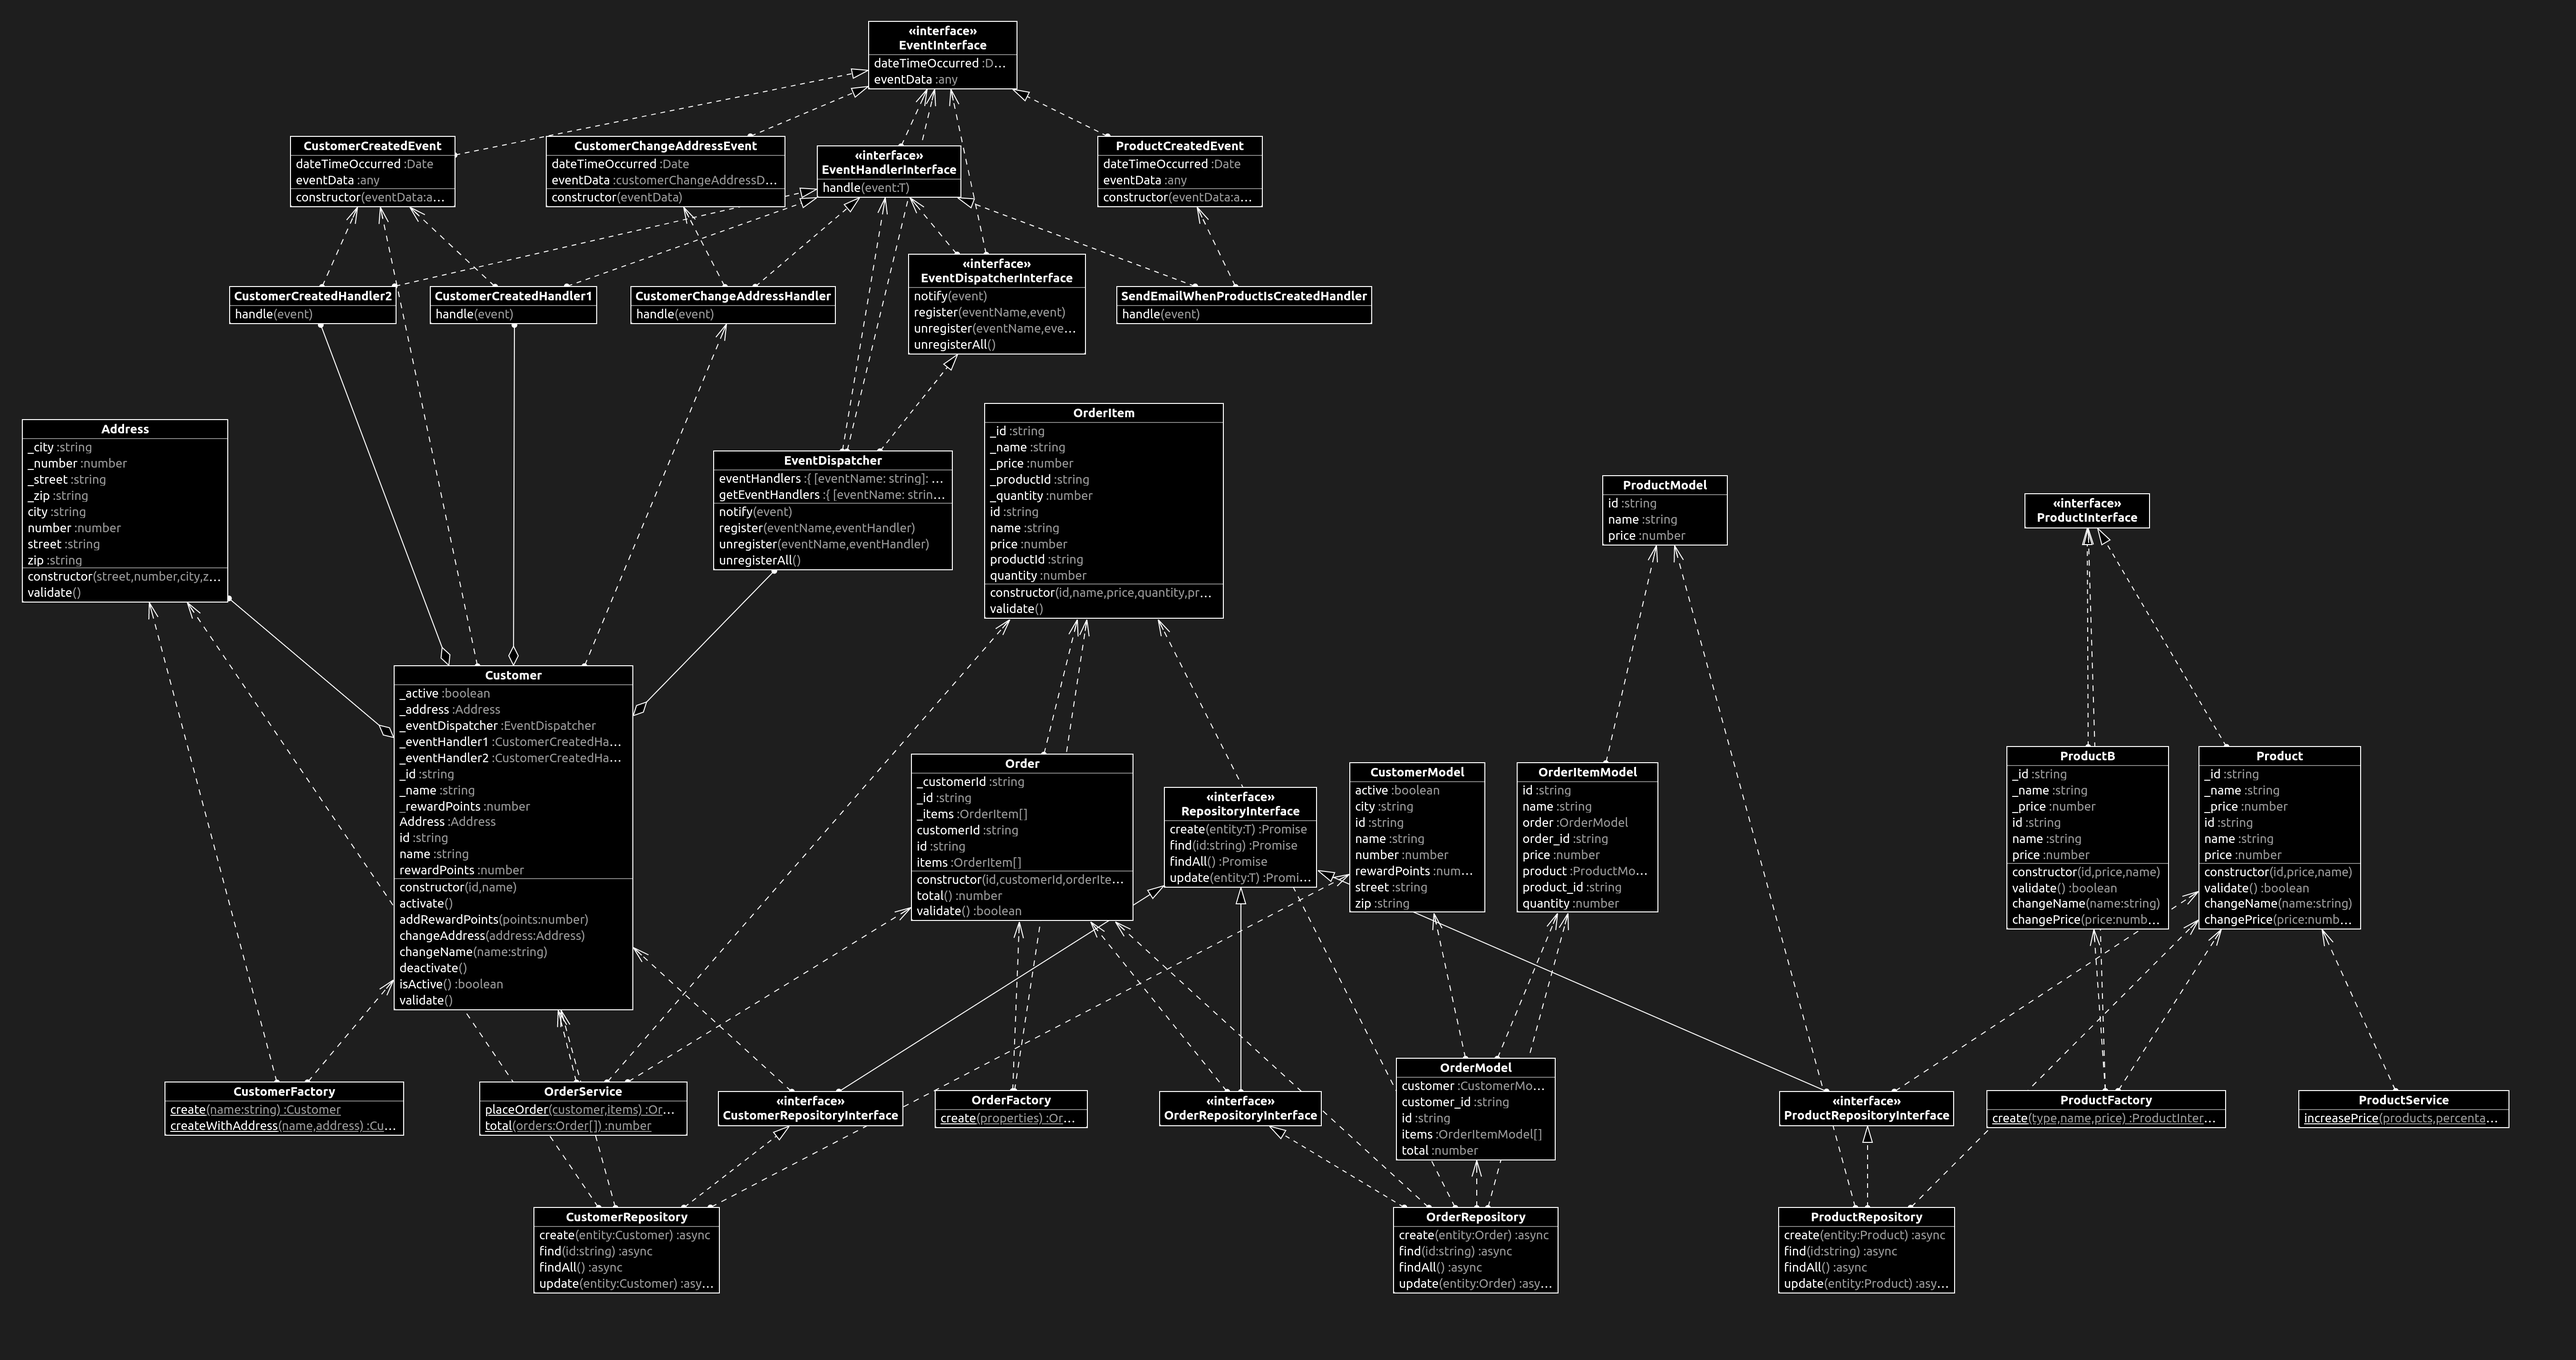
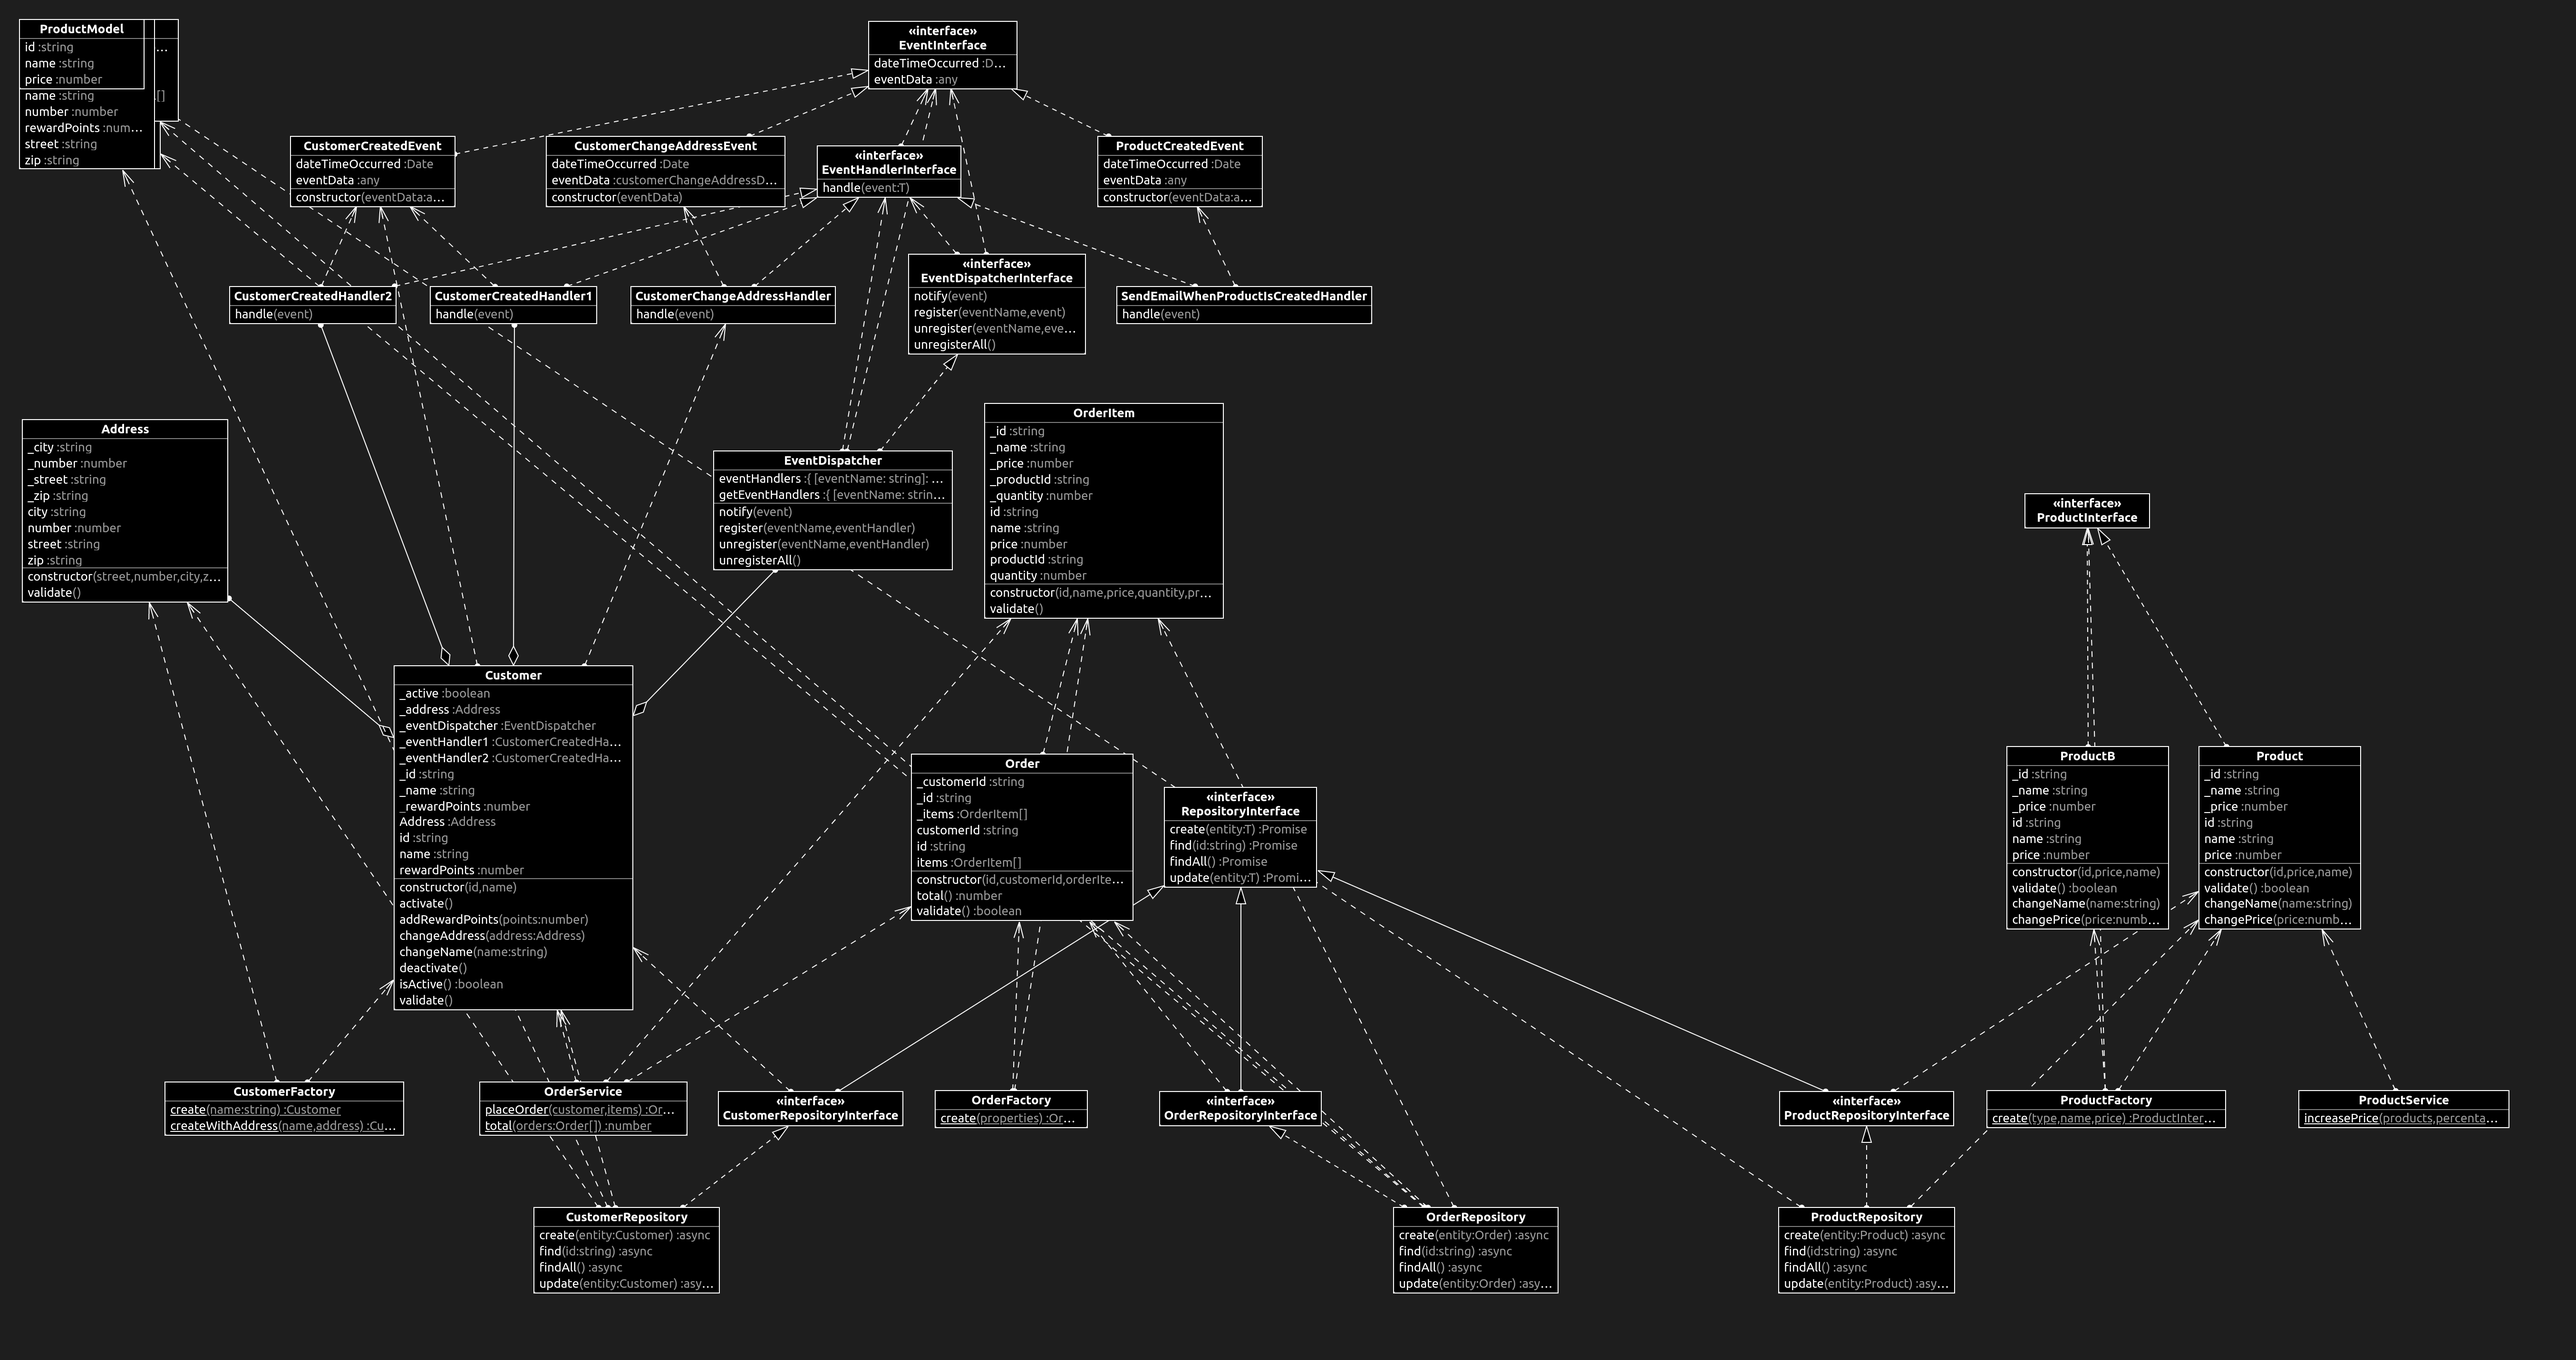
add files

diff --git a/src/domain/checkout/repository/order.repository.spec.ts b/src/domain/checkout/repository/order.repository.spec.ts
@@ -1,9 +1,9 @@
 import { where } from 'sequelize';
 import {Sequelize} from 'sequelize-typescript';
-import CustomerModel from '../../../infrastructure/database/sequelize/model/customer.model';
-import OrderItemModel from '../../../infrastructure/database/sequelize/model/order-item.model';
-import OrderModel from '../../../infrastructure/database/sequelize/model/order.model';
-import ProductModel from '../../../infrastructure/database/sequelize/model/product.model';
+import CustomerModel from '../../../infrastructure/database/sequelize/model/customer/customer.model';
+import OrderItemModel from '../../../infrastructure/database/sequelize/model/checkout/order-item.model';
+import OrderModel from '../../../infrastructure/database/sequelize/model/checkout/order.model';
+import ProductModel from '../../../infrastructure/database/sequelize/model/product/product.model';
 import Customer from '../../customer/entity/custumer';
 import CustomerRepository from '../../customer/repository/customer.repository';
 import Address from '../../customer/value-object/address';

diff --git a/src/domain/customer/repository/customer.repository.spec.ts b/src/domain/customer/repository/customer.repository.spec.ts
@@ -1,8 +1,8 @@
 import {Sequelize} from 'sequelize-typescript';
 import Address from '../value-object/address';
 
-import CustomerModel from '../../../infrastructure/database/sequelize/model/customer.model';
-import ProductModel from '../../../infrastructure/database/sequelize/model/product.model';
+import CustomerModel from '../../../infrastructure/database/sequelize/model/customer/customer.model';
+import ProductModel from '../../../infrastructure/database/sequelize/model/product/product.model';
 import CustomerRepository from './customer.repository';
 import Customer from '../entity/custumer';
 

diff --git a/src/domain/checkout/repository/order.repository.ts b/src/domain/checkout/repository/order.repository.ts
@@ -1,6 +1,6 @@
 
-import OrderItemModel from "../../../infrastructure/database/sequelize/model/order-item.model";
-import OrderModel from "../../../infrastructure/database/sequelize/model/order.model";
+import OrderItemModel from "../../../infrastructure/database/sequelize/model/checkout/order-item.model";
+import OrderModel from "../../../infrastructure/database/sequelize/model/checkout/order.model";
 import Order from "../entity/order";
 
 import OrderItem from "../entity/order_items";

diff --git a/src/domain/customer/repository/customer.repository.ts b/src/domain/customer/repository/customer.repository.ts
@@ -1,5 +1,6 @@
 
-import CustomerModel from "../../../infrastructure/database/sequelize/model/customer.model";
+
+import CustomerModel from "../../../infrastructure/database/sequelize/model/customer/customer.model";
 import Customer from "../entity/custumer";
 import Address from "../value-object/address";
 import CustomerRepositoryInterface from "./customer-repository.interface";

diff --git a/src/domain/product/repository/product.repository.spec.ts b/src/domain/product/repository/product.repository.spec.ts
@@ -1,5 +1,6 @@
 import {Sequelize} from 'sequelize-typescript';
-import ProductModel from '../../../infrastructure/database/sequelize/model/product.model';
+import ProductModel from '../../../infrastructure/database/sequelize/model/product/product.model';
+
 import Product from '../entity/product';
 
 import ProductRepository from './product.repository';

diff --git a/src/infrastructure/database/sequelize/model/checkout/order.model.ts b/src/infrastructure/database/sequelize/model/checkout/order.model.ts
@@ -7,9 +7,11 @@ import {
     BelongsTo,
     HasMany,
   } from "sequelize-typescript";
-import CustomerModel from "./customer.model";
+import CustomerModel from "../customer/customer.model";
+import OrderItemModel from "./order-item.model";
 
-  import OrderItemModel from "./order-item.model";
+
+
   
   @Table({
     tableName: "orders",

diff --git a/src/domain/product/repository/product.repository.ts b/src/domain/product/repository/product.repository.ts
@@ -1,5 +1,6 @@
 
-import ProductModel from "../../../infrastructure/database/sequelize/model/product.model";
+
+import ProductModel from "../../../infrastructure/database/sequelize/model/product/product.model";
 import Product from "../entity/product";
 import ProductRepositoryInterface from "./product-repository.interface";
 

diff --git a/src/infrastructure/database/sequelize/model/checkout/order-item.model.ts b/src/infrastructure/database/sequelize/model/checkout/order-item.model.ts
@@ -6,9 +6,10 @@ import {
     ForeignKey,
     BelongsTo,
   } from "sequelize-typescript";
+import ProductModel from "../product/product.model";
   
   import OrderModel from "./order.model";
-import ProductModel from "./product.model";
+
   
   
   @Table({

diff --git a/README.md b/README.md
@@ -1,1 +1,3 @@
-# learning-ddd
+# Domain Driven Design Project
+
+![plot](./docs/classes_diagram.png)
